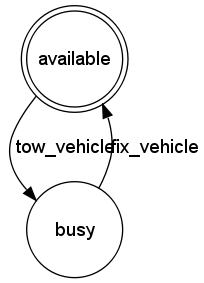
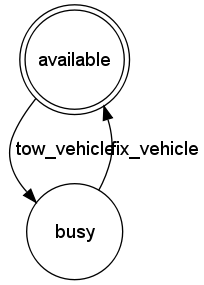
Allow states to be drawn as ellipses to accommodate long names

diff --git a/test/unit/state_test.rb b/test/unit/state_test.rb
@@ -527,12 +527,8 @@ begin
       @node = @state.draw(graph)
     end
     
-    def test_should_use_circle_shape
-      assert_equal 'circle', @node['shape']
-    end
-    
-    def test_should_enabled_fixedsize
-      assert_equal 'true', @node['fixedsize']
+    def test_should_use_ellipse_shape
+      assert_equal 'ellipse', @node['shape']
     end
     
     def test_should_set_width_to_one

diff --git a/lib/state_machine/state.rb b/lib/state_machine/state.rb
@@ -184,8 +184,7 @@ module StateMachine
         :label => description,
         :width => '1',
         :height => '1',
-        :fixedsize => 'true',
-        :shape => initial ? 'doublecircle' : 'circle'
+        :shape => initial ? 'doublecircle' : 'ellipse'
       )
     end
     
